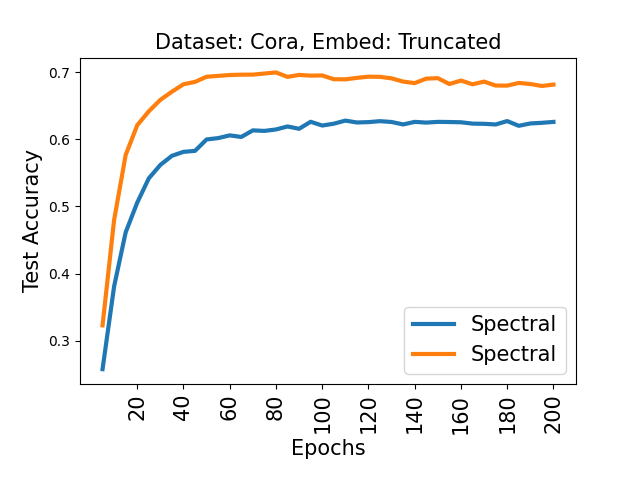
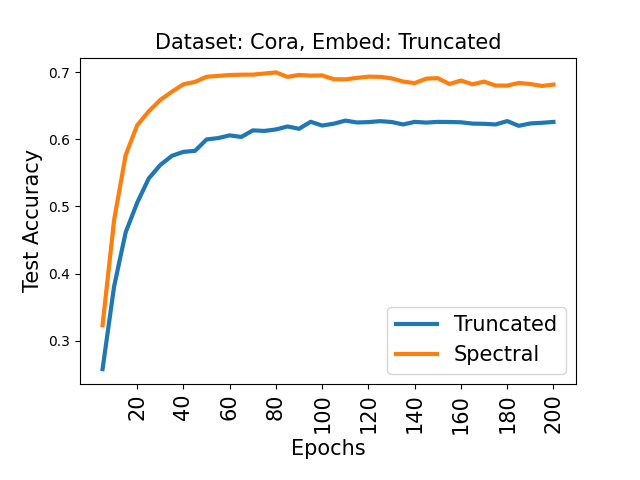
Fixed graphs for radial truncated spectral

diff --git a/Latex_Tables/compute_times_truncated_spec_radial_allDS.tex b/Latex_Tables/compute_times_truncated_spec_radial_allDS.tex
@@ -1,1 +1,1 @@
-\begin{table}\caption{Compute time and highest average test accuracy achieved on all datasets, non-symmetric and truncated-spectral embeddings, Radial}\begin{center}\begin{tabular}{ | m{2cm} | m{2cm}| m{2cm} | m{2cm} }\hline\textsc{Dataset} & \textsc{Embedding} & \textsc{Compute Time} & \textsc{Highest Test (Epoch Achieved)}\\\hline Cora & non-symmetric & 0.11 & 0.72 (89.0)\\\hline Cora & truncated-spectral & 0.03 & 0.5 (188.75)\\\hline CiteSeer & non-symmetric & 0.18 & 0.72 (96.25)\\\hline CiteSeer & truncated-spectral & 0.03 & 0.44 (186.5)\\\hline PubMed & non-symmetric & 0.24 & 0.7 (159.0)\\\hline PubMed & truncated-spectral & 0.1 & 0.55 (111.25)\\\hline WikiCs & non-symmetric & 0.15 & 0.78 (81.0)\\\hline WikiCs & truncated-spectral & 0.5 & 0.4 (193.5)\\\hline Arxiv & non-symmetric & 51.74 & 0.67 (158.75)\\\hline Arxiv & truncated-spectral & 19.08 & 0.57 (156.0)\\\hline Products & non-symmetric & 1759.03 & 0.8 (116.25)\\\hline Products & truncated-spectral & 931.73 & 0.72 (196.5)\\\hline\end{tabular}\end{center}\end{table}
+\begin{table}\caption{Compute time and highest average test accuracy achieved on all datasets, non-symmetric and truncated-spectral embeddings, Radial}\begin{center}\begin{tabular}{ | m{2cm} | m{2cm}| m{2cm} | m{2cm} }\hline\textsc{Dataset} & \textsc{Embedding} & \textsc{Compute Time} & \textsc{Highest Test (Epoch Achieved)}\\\hline Cora & non-symmetric & 0.11 & 0.72 (89.0)\\\hline Cora & truncated-spectral & 0.03 & 0.65 (137.0)\\\hline CiteSeer & non-symmetric & 0.18 & 0.72 (96.25)\\\hline CiteSeer & truncated-spectral & 0.03 & 0.51 (115.5)\\\hline PubMed & non-symmetric & 0.24 & 0.7 (159.0)\\\hline PubMed & truncated-spectral & 0.1 & 0.61 (89.5)\\\hline WikiCs & non-symmetric & 0.15 & 0.78 (81.0)\\\hline WikiCs & truncated-spectral & 0.5 & 0.73 (147.75)\\\hline Arxiv & non-symmetric & 51.74 & 0.67 (158.75)\\\hline Arxiv & truncated-spectral & 19.08 & 0.67 (111.5)\\\hline Products & non-symmetric & 1759.03 & 0.8 (116.25)\\\hline Products & truncated-spectral & 931.73 & 0.78 (73.0)\\\hline\end{tabular}\end{center}\end{table}

diff --git a/create_Latex_Table_truncated_radial_vs_spec_radial.py b/create_Latex_Table_truncated_radial_vs_spec_radial.py
@@ -47,7 +47,7 @@ for coeff in coeff_list:
                                 compute_time = round(data[embed],2)
 
                         if embed == "truncated-spectral":
-                            with open(f"{root_dir}/Truncated_Results/highest_Validation_{ds}_truncated_spectrumMLP_truncated_model_4.txt") as valid_results:
+                            with open(f"{root_dir}/Truncated_Results/highest_Validation_{ds}_{model_name[model_index]}_truncated_model_4.txt") as valid_results:
                                 epochs = [str(i) for i in range(1,number_epochs+1) if i%5==0]
                                 data = json.load(valid_results)
                                 for experiment_number in range(num_experiments):

diff --git a/create_SimpleGraphs_radial_truncated_spec.py b/create_SimpleGraphs_radial_truncated_spec.py
@@ -77,7 +77,7 @@ for dataset in dataset_name:
                 json.dump(average_performance_dic, fp)
             for record_index in range(len(all_records)):
                 for index in range(len(all_records[record_index])):
-                    plt.plot(epochs,all_records[record_index][index],label=different_embed_names[embed_index],linestyle="-", linewidth=3.0)
+                    plt.plot(epochs,all_records[record_index][index],label=different_embed_names[index],linestyle="-", linewidth=3.0)
 
                 plt.xticks(condensed_epochs,rotation="vertical",fontsize=font_size)
                 plt.xlabel("Epochs",fontsize=font_size)
